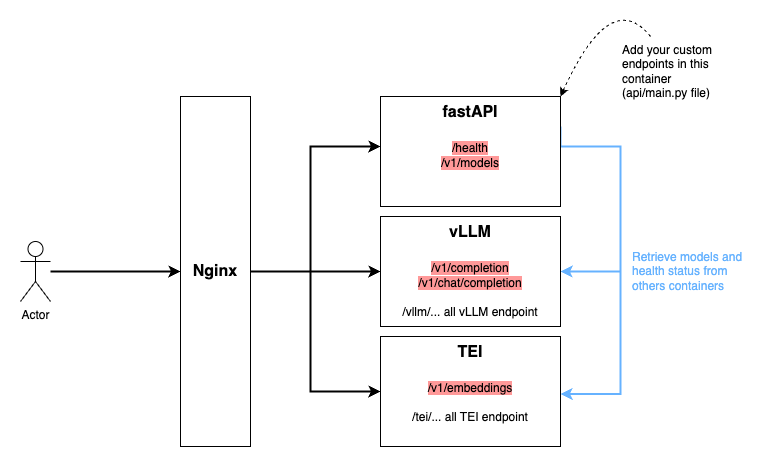
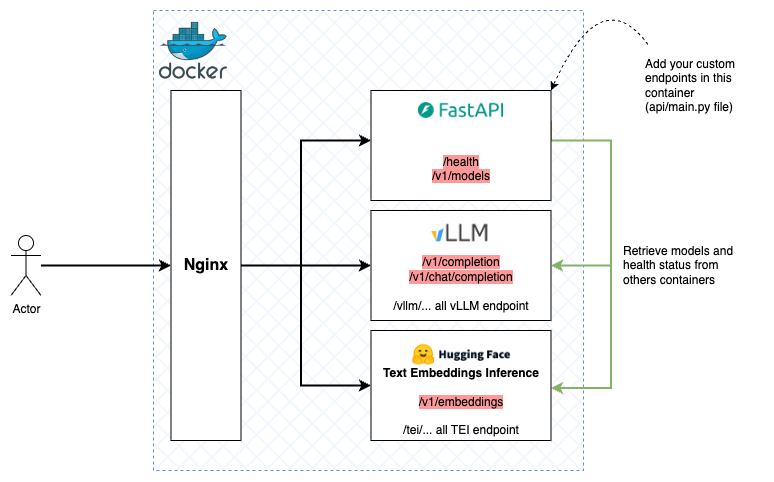
doc: improve doc and more light organisation

Changed region(s): [[0.0, 0.0299, 0.965, 0.9274], [0.8093, 0.0598, 0.965, 0.2393], [0.7471, 0.0299, 0.8093, 0.0897]]

diff --git a/fastapi/main.py b/fastapi/main.py
@@ -7,10 +7,10 @@ from typing import Optional, Union
 
 from schemas import CustomModel, Models
 
-app = FastAPI(title="VLLMEmbeddings", version="0.0.1")
+app = FastAPI(title="vLLMembeddings", version="1.0.1")
 
-VLLM_URL = f"http://vllm:8000"
-TEI_URL = f"http://tei:80"
+VLLM_URL = "http://vllm:8000"
+TEI_URL = "http://tei:80"
 
 
 @app.get("/health")
@@ -35,7 +35,6 @@ def get_models(request: Request, model: Optional[str] = None) -> Union[Models, C
     """
     Show available models
     """
-
     vllm_model = requests.get(f"{VLLM_URL}/v1/models").json()
     tei_model = requests.get(f"{TEI_URL}/info").json()
 

diff --git a/README.md b/README.md
@@ -1,10 +1,13 @@
 # vLLM + embeddings
+### Deploy a full OpenAI API with vLLM that supports all embedding models
+
+![](https://img.shields.io/badge/python-3.12-green) ![](https://img.shields.io/badge/vLLM-latest-blue) ![](https://img.shields.io/badge/HuggingFace%20Text%20Embeddings%20Inference-latest-red)
 
 *🔥 News :* 
-- add HF_TOKEN variable for private model on HuggingFace
+- upgrade python version to 3.12
+- add HUGGING_FACE_HUB_TOKEN variable for private model on HuggingFace
 - new architecture for more flexiblity !
-
-**Deploy a full OpenAI API with vLLM.**
+---
 
 [vLLM](https://github.com/vllm-project/vllm) is one of the state of the art libraries for deploying a Large Language Model (LLM) and its API with better generation performance. However, vLLM does not currently support all embeddings models for endpoint `/v1/embeddings`, although it can be used to deploy an API according to OpenAI conventions (see this [discussion](https://github.com/vllm-project/vllm/discussions/310)).
 
